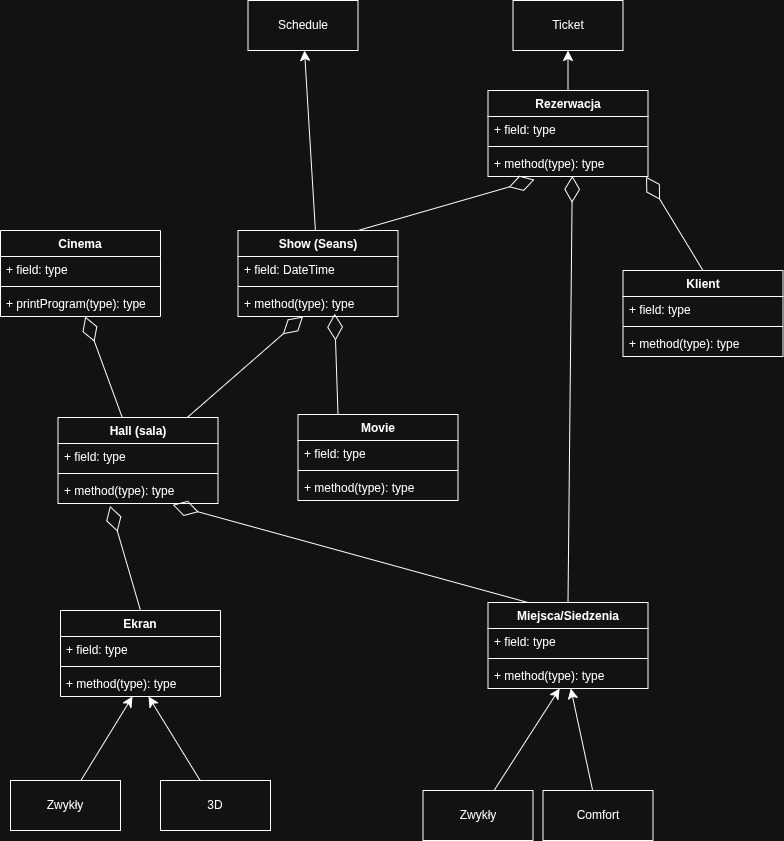
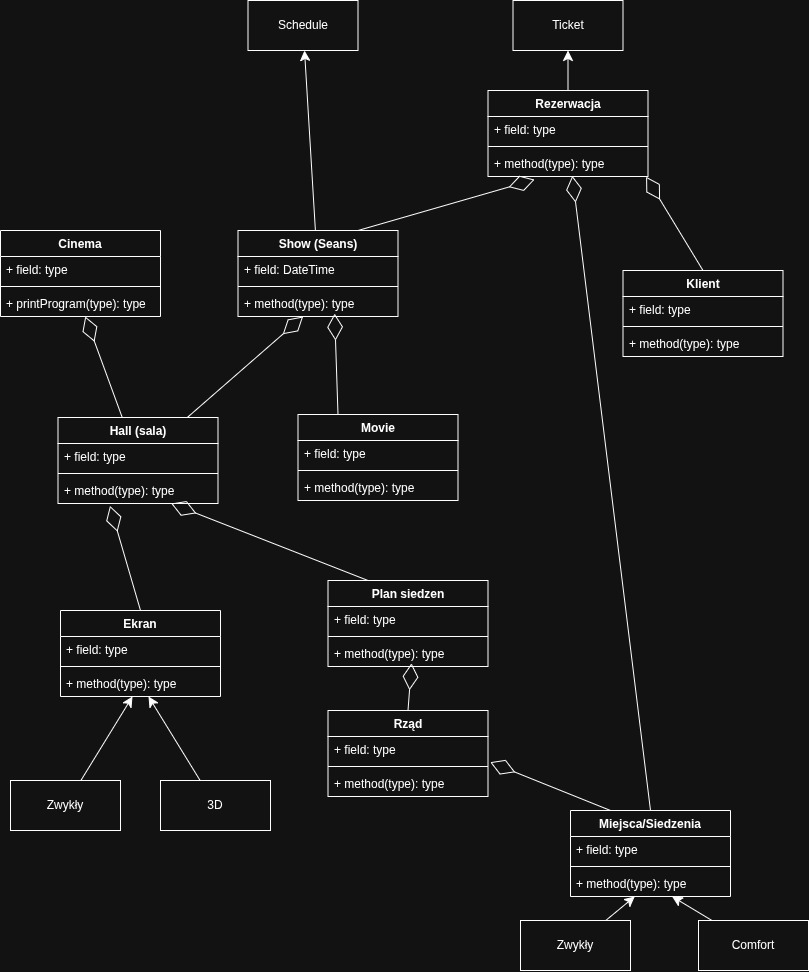
Refactor code for implementation of 2D SeatsPalan class

diff --git a/src/main/java/org/multipleks/struktura/Hall.java b/src/main/java/org/multipleks/struktura/Hall.java
@@ -7,12 +7,13 @@ import java.util.List;
 
 public class Hall {
     private Screen screen;
-    private List<Seat> seatsList;
+    private SeatsPlan seatsPlan;
     private List<Show> showList = new ArrayList<>();
 
-    public Hall (Screen screen, List<Seat> seatsList){
+
+    public Hall (Screen screen, SeatsPlan seatsPlan){
         this.screen = screen;
-        this.seatsList = seatsList;
+        this.seatsPlan = seatsPlan;
         this.showList = showList;
     };
 
@@ -24,19 +25,19 @@ public class Hall {
         this.screen = screen;
     }
 
-    public List<Seat> getSeatsList() {
-        return seatsList;
-    }
-
-    public void setSeatsList(List<Seat> seatsList) {
-        this.seatsList = seatsList;
-    }
-
     public List<Show> getShowList() {
         return showList;
     }
 
     public void setShowList(List<Show> showList) {
         this.showList = showList;
+    }
+
+    public SeatsPlan getSeatsPlan() {
+        return seatsPlan;
+    }
+
+    public void setSeatsPlan(SeatsPlan seatsPlan) {
+        this.seatsPlan = seatsPlan;
     }
 }

diff --git a/src/main/java/org/multipleks/struktura/HallFactory.java b/src/main/java/org/multipleks/struktura/HallFactory.java
@@ -5,18 +5,21 @@ import java.util.List;
 
 public class HallFactory {
 
-    public static Hall createVipHall(int numberOfSeats) {
+    public static Hall createVipHall(int numberOfSeatsInRow, int numberOfRows) {
 
         Screen screen = new Screen(ScreenType.STANDARD);
+        List<Row> rows = new ArrayList<>();
 
-        List<Seat> seats = new ArrayList<>();
-
-        for (int i = 1; i <= numberOfSeats; i++) {
-            seats.add(
-                    new Seat(SeatType.COMFORT, i)
-            );
+        for (int i = 1; i <= numberOfRows; i++){
+            List<Seat> seats = new ArrayList<>();
+            for (int z = 1; z <= numberOfSeatsInRow; z++) {
+                seats.add(new Seat(SeatType.COMFORT, z));
+            }
+            rows.add(new Row("void", seats));
         }
-        return new Hall(screen, seats);
+
+        SeatsPlan seatsPlan = new SeatsPlan(rows);
+        return new Hall(screen, seatsPlan);
     }
     public static Hall create3DHall(int numberOfSeats){
         Screen screen = new Screen(ScreenType.THREE_D);

diff --git a/src/main/java/org/multipleks/struktura/SeatsPlan.java b/src/main/java/org/multipleks/struktura/SeatsPlan.java
@@ -1,0 +1,26 @@
+package org.multipleks.struktura;
+
+import java.util.List;
+
+public class SeatsPlan {
+    private List<Row> rowList;
+
+    public SeatsPlan(List<Row> rowList) {
+        this.rowList = rowList;
+        for (int i = 0; i < rowList.size(); i++){
+            if (rowList.size() > 26) {
+                throw new IllegalArgumentException("Osiągnięto limit rzędów w sali kinowej");
+            }
+            int asciStart = 65 + i;
+            rowList.get(i).setRowName(String.valueOf((char) asciStart));
+        }
+    }
+
+    public List<Row> getRowList() {
+        return rowList;
+    }
+
+    public void setRowList(List<Row> rowList) {
+        this.rowList = rowList;
+    }
+}

diff --git a/src/main/java/org/multipleks/struktura/Row.java b/src/main/java/org/multipleks/struktura/Row.java
@@ -1,0 +1,29 @@
+package org.multipleks.struktura;
+
+import java.util.List;
+
+public class Row {
+    private String rowName;
+    private List<Seat> seatsList;
+
+    public Row(String rowName, List<Seat> seatsList) {
+        this.rowName = rowName;
+        this.seatsList = seatsList;
+    }
+
+    public String getRowName() {
+        return rowName;
+    }
+
+    public void setRowName(String rowName) {
+        this.rowName = rowName;
+    }
+
+    public List<Seat> getSeatsList() {
+        return seatsList;
+    }
+
+    public void setSeatsList(List<Seat> seatsList) {
+        this.seatsList = seatsList;
+    }
+}

diff --git a/src/main/java/org/multipleks/Main.java b/src/main/java/org/multipleks/Main.java
@@ -42,7 +42,7 @@ public class Main {
 
         Cinema cinema2 = new Cinema("Bonarka", "Kraków", halls2);
 
-        System.out.println(cinema2.getHallsList().get(0).getSeatsList().get(0).getType());
+        //System.out.println(cinema2.getHallsList().get(0).getRowList().get(0).getType());
 
 
         //... configuration and test data should be inserted here...

diff --git a/README.md b/README.md
@@ -1,7 +1,7 @@
 # mhuMultipleks
 
 Warstwa struktury:
-- Cinema -> Hall -> Seat + Screen
+- Cinema -> Hall + Screen -> Row -> Seat
 
 Warstwa repertuaru:
 - Movie (Ma tytuł, rezysera, opis, czas trwania)
@@ -14,7 +14,7 @@ Warstwa rezerwacji:
 - Ticket (Ma jedną rezerwację)
 
 Notatki:
-- Dodaneie indeksów dla krzeseł (krzesło nr1, rząd n1 itd.) 
+- Dodaneie indeksów dla krzeseł (krzesło nr1, rząd n1 itd.)
 - Ogrnięcie klasy "Show"
 - Rozplanowanie rezerwacji
 
